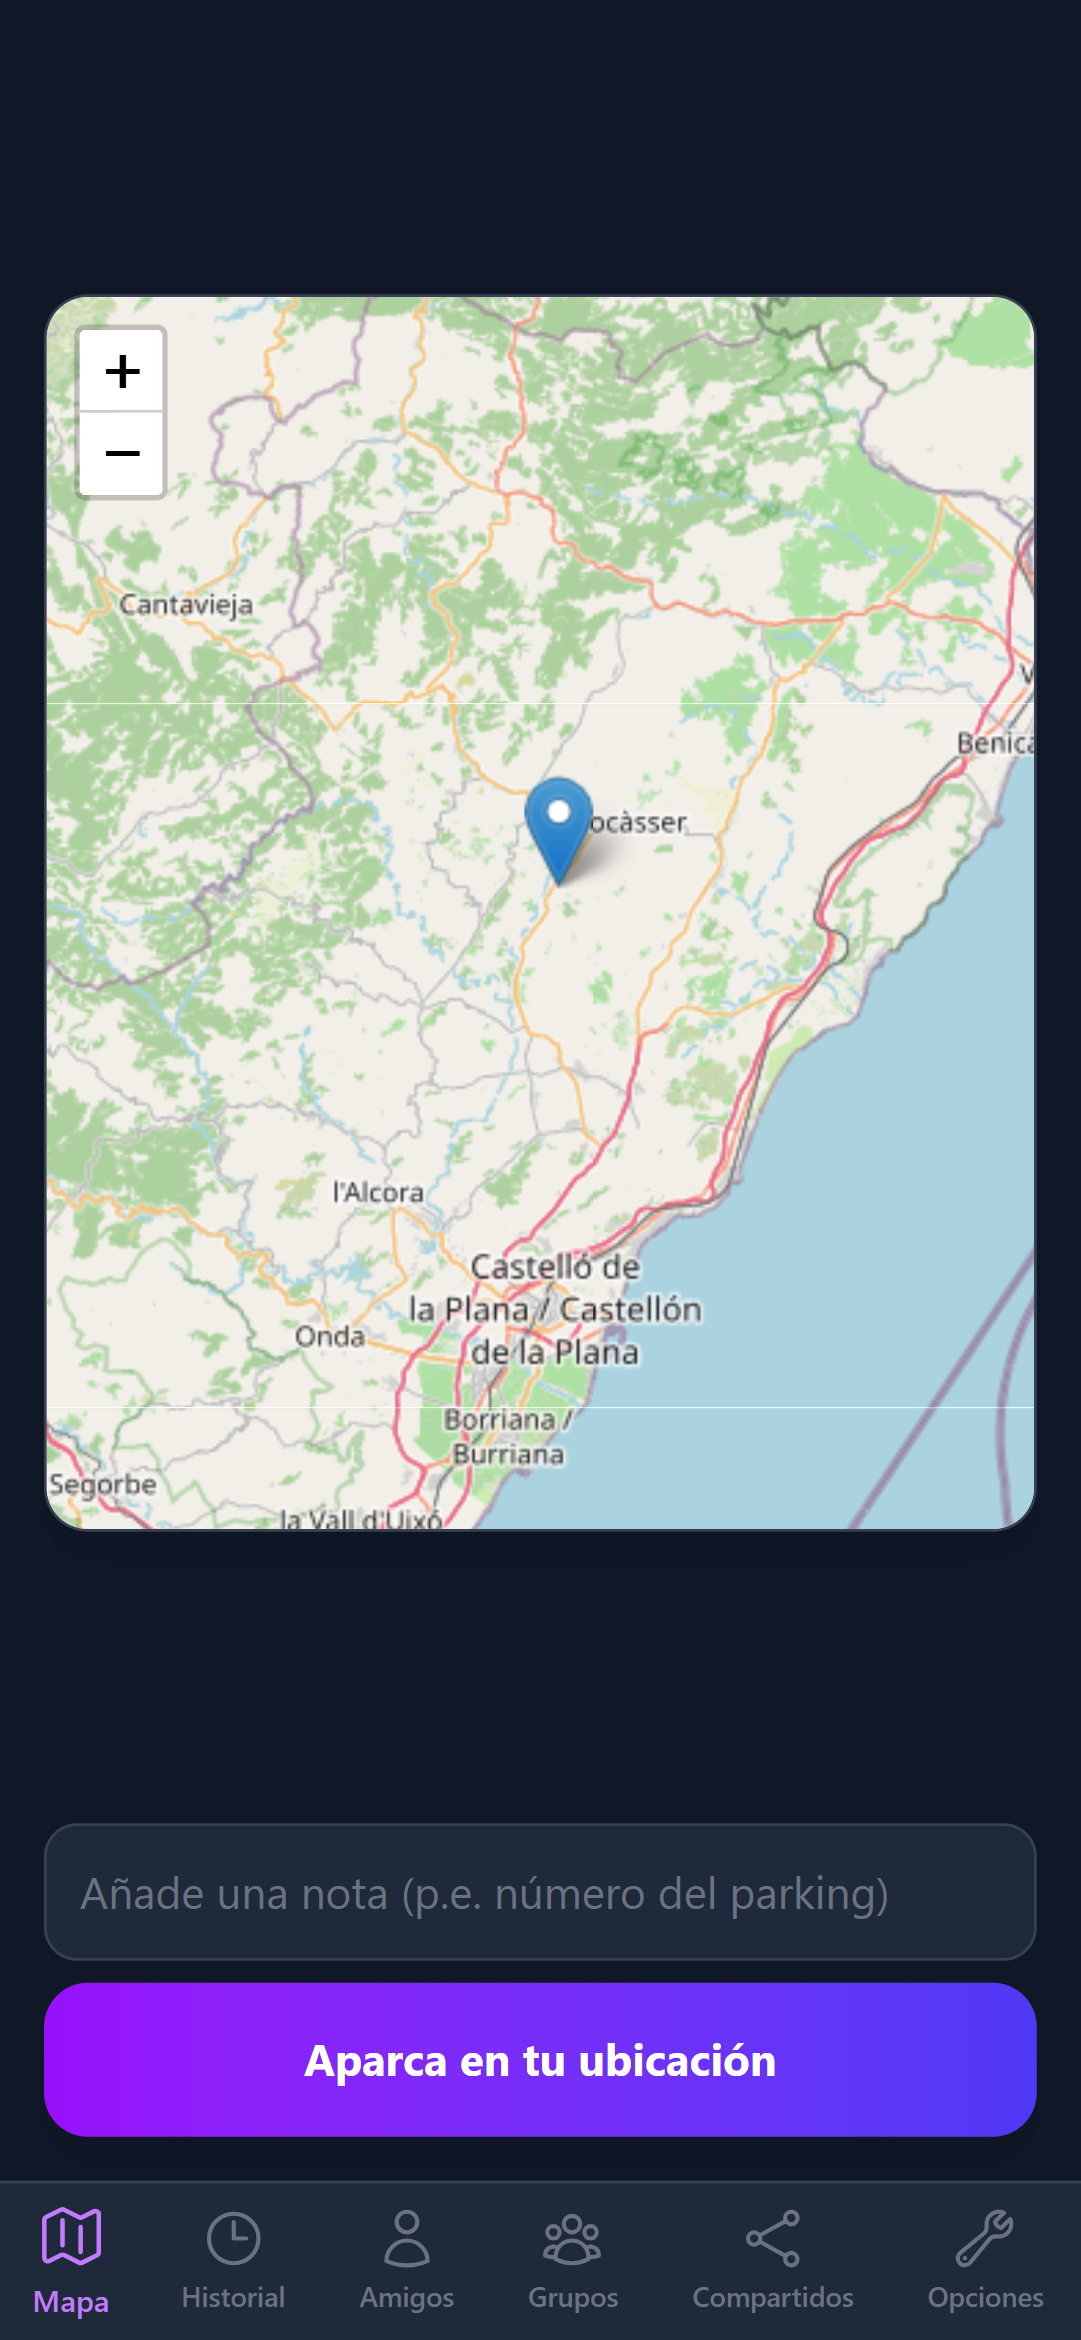
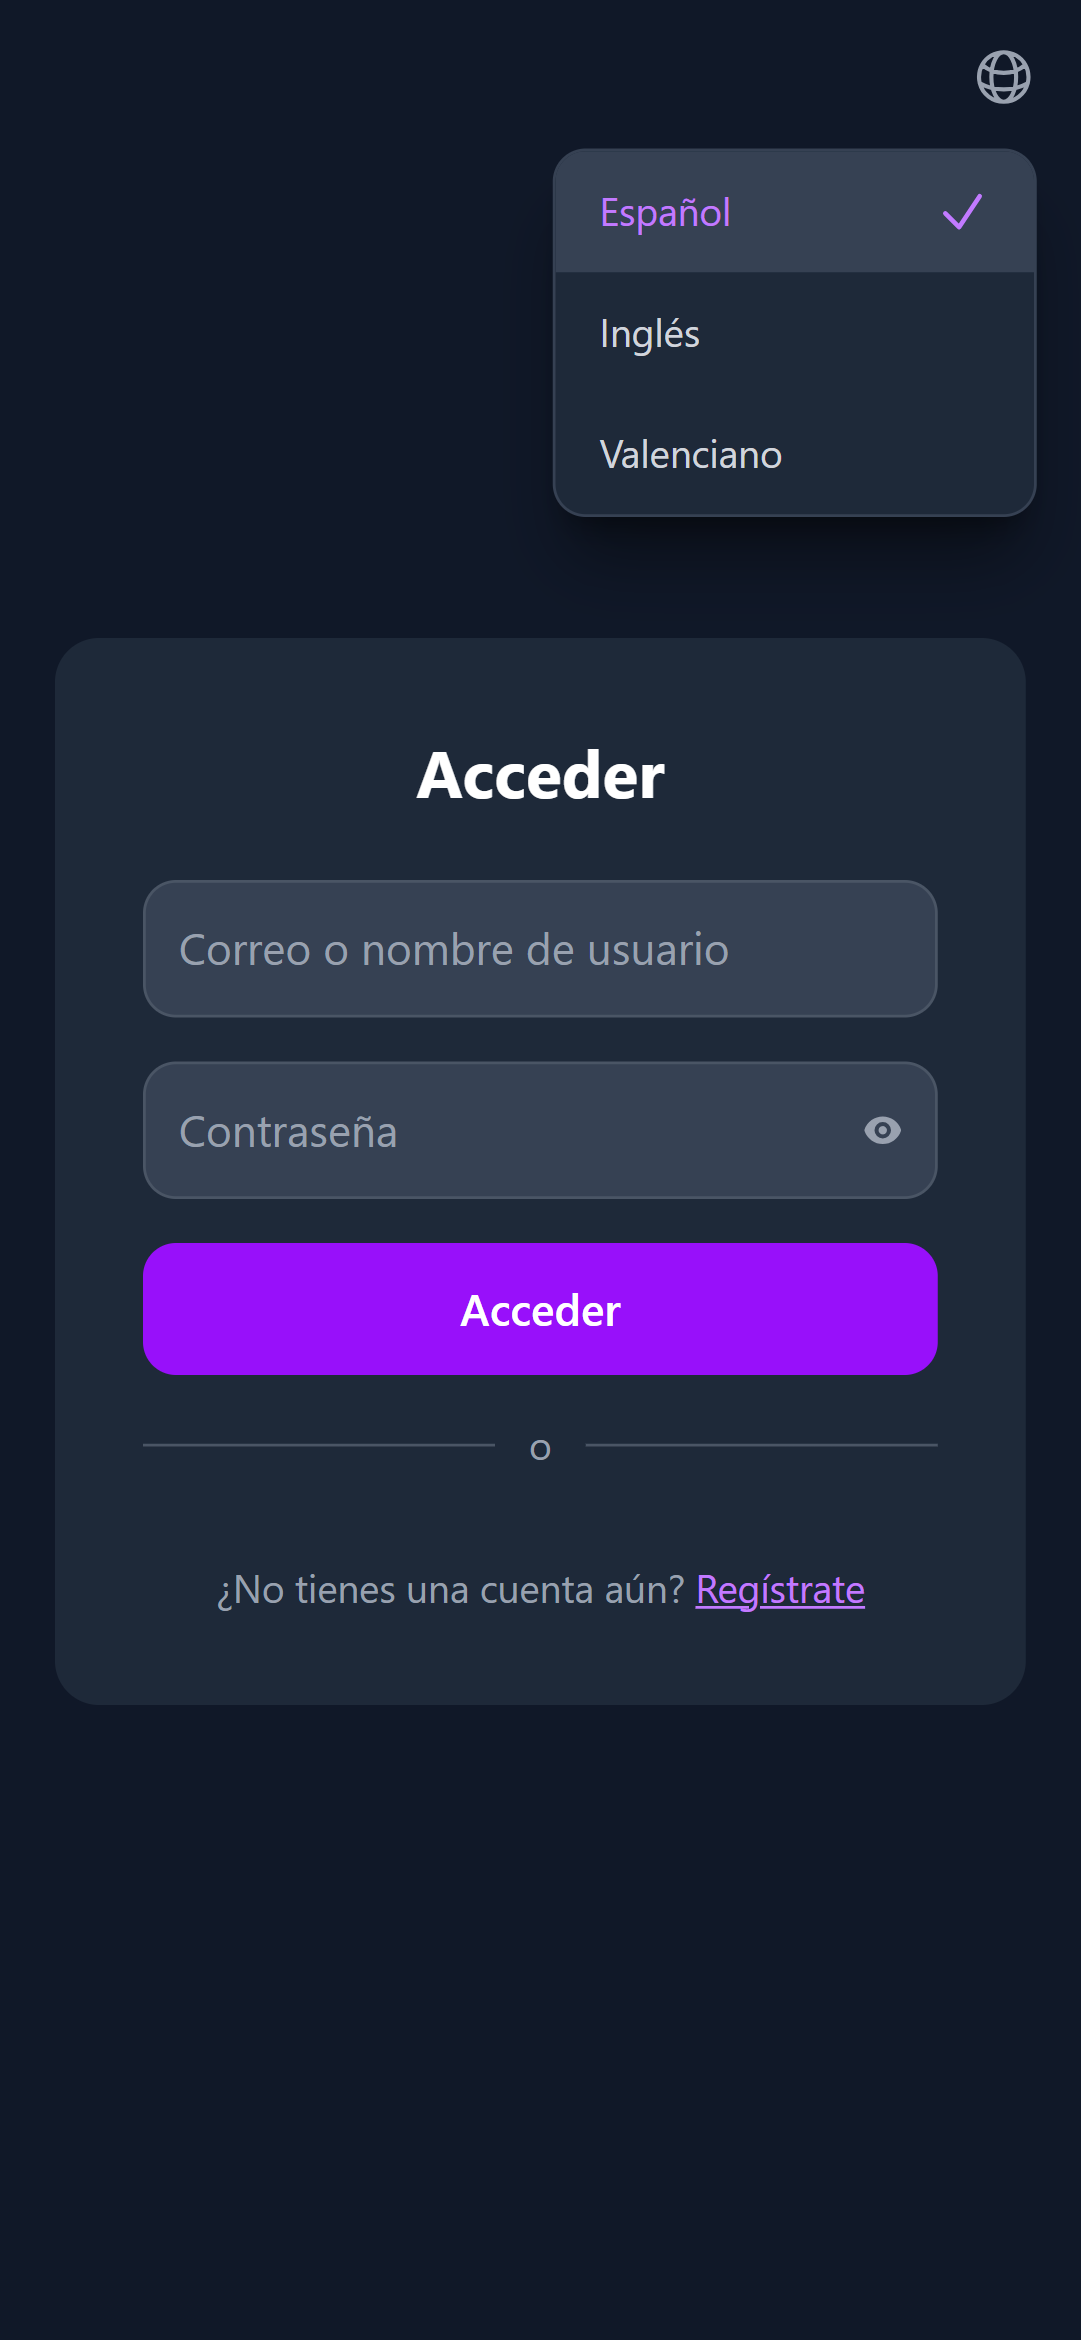
Update

diff --git a/src/data/projects.ts b/src/data/projects.ts
@@ -27,7 +27,10 @@ export const projects: Project[] = [
     ],
     links: { demo: "https://app-parking-raulbm.numinformatica.com" },
     media: [
-      { label: "Dashboard", type: "captura", src: "/images/app-parking-1.png" },
+      { label: "Captura 1", type: "captura", src: "/images/app-parking-1.png" },
+      { label: "Captura 2", type: "captura", src: "/images/app-parking-2.png" },
+      { label: "Captura 3", type: "captura", src: "/images/app-parking-3.png" },
+      { label: "Captura 4", type: "captura", src: "/images/app-parking-4.png" },
     ],
     hue: 170,
   },
@@ -45,7 +48,8 @@ export const projects: Project[] = [
     tech: ["Linux", "Prestashop", "MySQL"],
     links: { demo: "https://bellamapi.es" },
     media: [
-      { label: "Captura", type: "captura", src: "/images/bellamapi-1.png" },
+      { label: "Captura 1", type: "captura", src: "/images/bellamapi-1.png" },
+      { label: "Captura 2", type: "captura", src: "/images/bellamapi-2.png" },
     ],
     hue: 240,
   },
@@ -64,10 +68,26 @@ export const projects: Project[] = [
     tech: ["Unity", "C#"],
     links: { demo: "https://isg-games.itch.io/el-libro-magico-de-alimentos" },
     media: [
-      { label: "Captura", type: "captura", src: "/images/libro-magico-1.png" },
-      { label: "Captura", type: "captura", src: "/images/libro-magico-2.png" },
-      { label: "Captura", type: "captura", src: "/images/libro-magico-3.png" },
-      { label: "Captura", type: "captura", src: "/images/libro-magico-4.png" },
+      {
+        label: "Captura 1",
+        type: "captura",
+        src: "/images/libro-magico-1.png",
+      },
+      {
+        label: "Captura 2",
+        type: "captura",
+        src: "/images/libro-magico-2.png",
+      },
+      {
+        label: "Captura 3",
+        type: "captura",
+        src: "/images/libro-magico-3.png",
+      },
+      {
+        label: "Captura 4",
+        type: "captura",
+        src: "/images/libro-magico-4.png",
+      },
     ],
     hue: 95,
   },
@@ -82,7 +102,33 @@ export const projects: Project[] = [
     description: ["Videojuego creado en 2 días para la UJI Game Jam 2026."],
     tech: ["Unity", "C#"],
     links: { demo: "https://isg-games.itch.io/party-drinker" },
-    media: [{ label: "Captura", type: "captura" }],
+    media: [
+      {
+        label: "Captura 1",
+        type: "captura",
+        src: "/images/party-drinker-1.png",
+      },
+      {
+        label: "Captura 2",
+        type: "captura",
+        src: "/images/party-drinker-2.png",
+      },
+      {
+        label: "Captura 3",
+        type: "captura",
+        src: "/images/party-drinker-3.png",
+      },
+      {
+        label: "Captura 4",
+        type: "captura",
+        src: "/images/party-drinker-4.png",
+      },
+      {
+        label: "Captura 5",
+        type: "captura",
+        src: "/images/party-drinker-5.png",
+      },
+    ],
     hue: 208,
   },
   {
@@ -99,7 +145,13 @@ export const projects: Project[] = [
     ],
     tech: ["Unity", "C#"],
     links: { demo: "https://raulbm.itch.io/los-secretos-de-altura" },
-    media: [{ label: "Captura", type: "captura" }],
+    media: [
+      {
+        label: "Captura 1",
+        type: "captura",
+        src: "/images/secretos-altura-1.png",
+      },
+    ],
     hue: 54,
   },
   {
@@ -113,7 +165,23 @@ export const projects: Project[] = [
     description: ["Videojuego creado en 2 días para la UJI Game Jam 2024."],
     tech: ["Unity", "C#"],
     links: { demo: "https://alexc04.itch.io/trick-or-treat-kill-your-beat" },
-    media: [{ label: "Captura", type: "captura" }],
+    media: [
+      {
+        label: "Captura 1",
+        type: "captura",
+        src: "/images/trick-or-treat-1.png",
+      },
+      {
+        label: "Captura 2",
+        type: "captura",
+        src: "/images/trick-or-treat-2.png",
+      },
+      {
+        label: "Captura 3",
+        type: "captura",
+        src: "/images/trick-or-treat-3.png",
+      },
+    ],
     hue: 240,
   },
   {
@@ -128,7 +196,6 @@ export const projects: Project[] = [
       "Creación de un bot de Telegram con Node.js y MySQL para emitir alertas de monitorización remota vía Telegram",
     ],
     tech: ["Node.js", "Docker", "MySQL", "Telegram API", "WebSockets"],
-    links: { demo: "https://bellamapi.es" },
     media: [{ label: "Captura", type: "captura" }],
     hue: 240,
   },

diff --git a/src/components/ProjectModal.tsx b/src/components/ProjectModal.tsx
@@ -110,11 +110,7 @@ function ProjectModal({ project, onClose }: Props) {
                 style={{
                   background: `linear-gradient(135deg, hsl(${project.hue} 55% 46%), hsl(${project.hue + 45} 62% 30%))`,
                 }}
-              >
-                <span className="modal-media-type">
-                  {item.type.toUpperCase()}
-                </span>
-              </div>
+              ></div>
             )}
             <button
               className="modal-nav"
@@ -154,20 +150,22 @@ function ProjectModal({ project, onClose }: Props) {
           ))}
         </div>
 
-        <p className="kicker-projectmodal">Enlaces</p>
-        <div className="modal-links">
-          {project.links.demo && (
-            <a
-              className="btn"
-              href={project.links.demo}
-              target="_blank"
-              rel="noreferrer"
-            >
-              <ExternalLink size={15} />
-              Demo
-            </a>
-          )}
-          {/**{project.links.repo && (
+        {project.links && (
+          <>
+            <p className="kicker-projectmodal">Enlaces</p>{" "}
+            <div className="modal-links">
+              {project.links.demo && (
+                <a
+                  className="btn"
+                  href={project.links.demo}
+                  target="_blank"
+                  rel="noreferrer"
+                >
+                  <ExternalLink size={15} />
+                  Demo
+                </a>
+              )}
+              {/**{project.links.repo && (
             <a
               className="btn"
               href={project.links.repo}
@@ -178,18 +176,20 @@ function ProjectModal({ project, onClose }: Props) {
               Código
             </a>
           )} **/}
-          {project.links.video && (
-            <a
-              className="btn"
-              href={project.links.video}
-              target="_blank"
-              rel="noreferrer"
-            >
-              <Play size={15} />
-              Vídeo
-            </a>
-          )}
-        </div>
+              {project.links.video && (
+                <a
+                  className="btn"
+                  href={project.links.video}
+                  target="_blank"
+                  rel="noreferrer"
+                >
+                  <Play size={15} />
+                  Vídeo
+                </a>
+              )}
+            </div>
+          </>
+        )}
       </motion.div>
       {zoomed && imageProject && (
         <div

diff --git a/src/components/ProjectCard.tsx b/src/components/ProjectCard.tsx
@@ -30,7 +30,7 @@ function ProjectCard({ project, onSelect }: Props) {
                 backgroundSize: "contain",
                 backgroundPosition: "center",
                 backgroundRepeat: "no-repeat",
-                backgroundColor: `hsl(221, 53%, 82%)`,
+                backgroundColor: `hsl(221, 28%, 74%)`,
               }
         }
       >

diff --git a/src/index.css b/src/index.css
@@ -699,10 +699,10 @@ section[id] {
 .modal-image {
   flex: 1;
   width: 70%;
-  max-height: 60vh;
+  max-height: 40vh;
   object-fit: contain;
   border-radius: 12px;
-  background: hsl(220 17% 14%);
+  background: hsl(221, 15%, 26%);
 }
 .zoom-overlay {
   position: fixed;

diff --git a/src/types.ts b/src/types.ts
@@ -13,7 +13,7 @@ export type Project = {
   short: string;
   description: string[];
   tech: string[];
-  links: { demo?: string; repo?: string; video?: string };
+  links?: { demo?: string; repo?: string; video?: string };
   media: MediaItem[];
   hue: number;
 };
